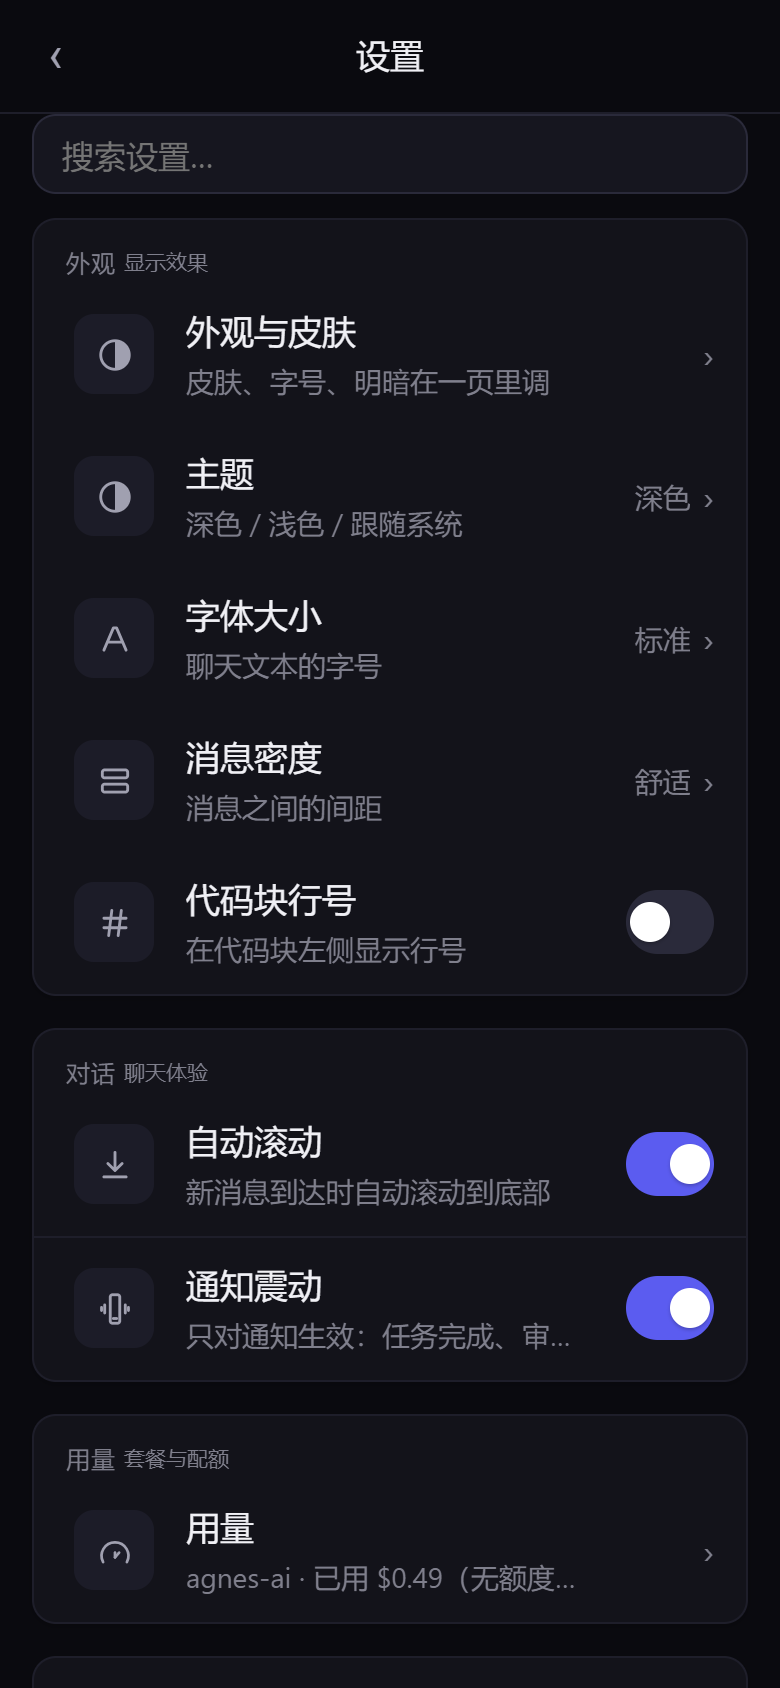
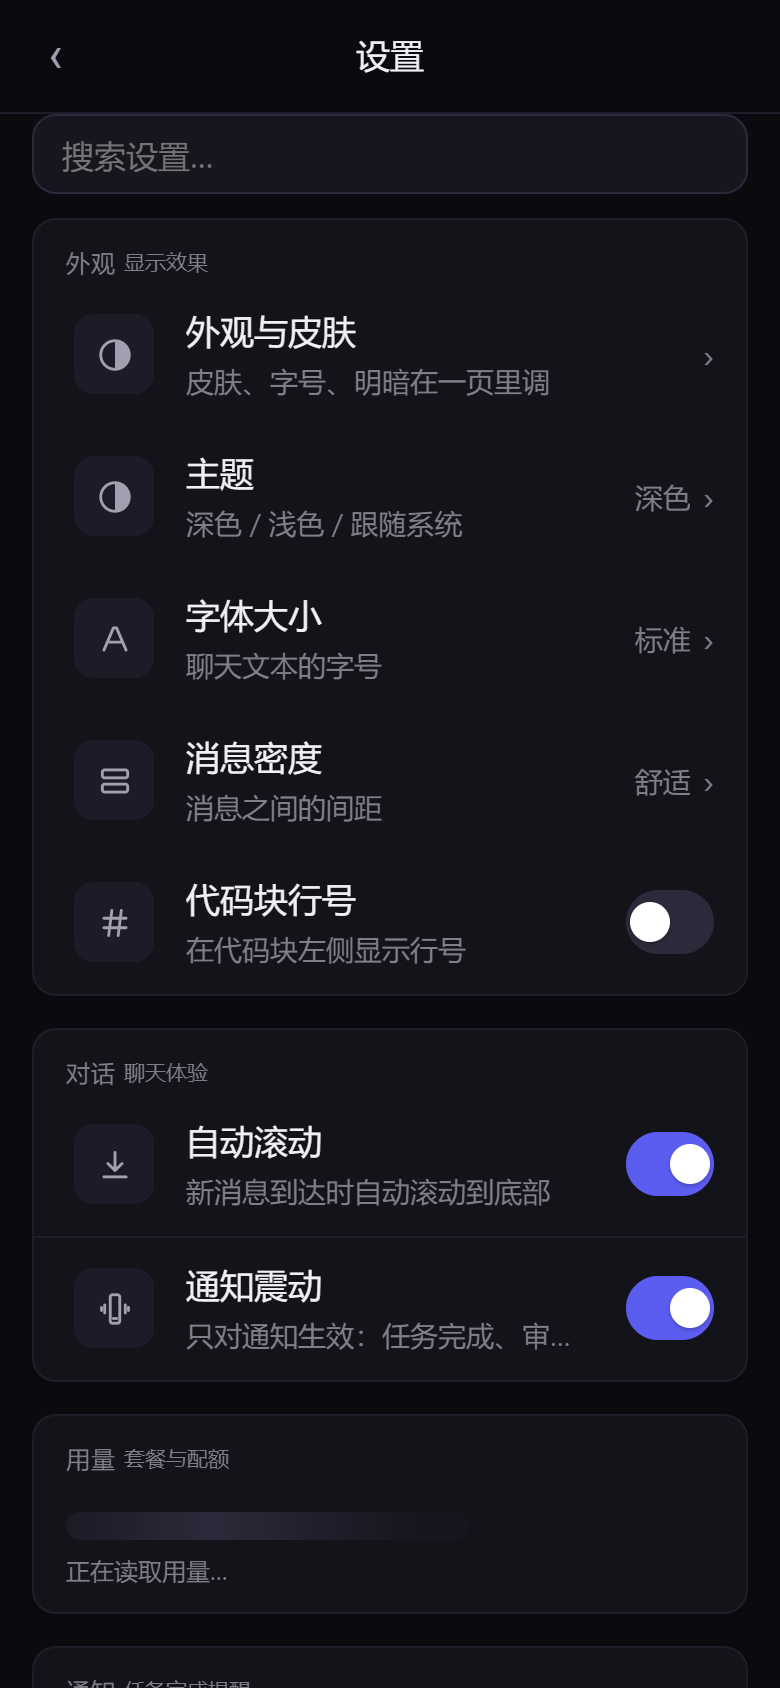
docs(原型): 对话页版式对照稿（390px，HTML + 截图），确认方向后再改真实代码

diff --git a/docs/prototype/chat-rework.html b/docs/prototype/chat-rework.html
@@ -1,0 +1,120 @@
+<!doctype html>
+<html lang="zh-CN">
+<head>
+<meta charset="utf-8">
+<meta name="viewport" content="width=device-width, initial-scale=1">
+<title>对话页 · 对照稿</title>
+<style>
+  :root{
+    --bg:#101015; --sur1:#15151c; --sur2:#1c1c25; --line:rgba(255,255,255,.07);
+    --fg:#eceef5; --fg2:#a8adbd; --fg3:#767c8b;
+    --accent:#7c8cff; --ok:#3ddc84; --warn:#e0a52c; --danger:#ff6b81;
+    --t-s:12px; --t-m:14px; --t-l:17px; --t-xl:22px; --t-2xl:28px;
+    --r-s:8px; --r-m:12px; --r-l:18px;
+  }
+  *{box-sizing:border-box}
+  body{margin:0;background:#000;font-family:-apple-system,"PingFang SC","Noto Sans SC",system-ui,sans-serif;color:var(--fg)}
+  .phone{width:390px;height:844px;margin:0 auto;background:var(--bg);display:flex;flex-direction:column;overflow:hidden}
+
+  /* 头部 */
+  .hdr{display:flex;align-items:center;gap:10px;padding:14px 12px 10px;border-bottom:1px solid var(--line);background:var(--bg)}
+  .hdr .back{color:var(--fg2);font-size:18px}
+  .hdr .title{font-size:var(--t-l);font-weight:600;flex:1;text-align:center}
+  .hdr .tools{display:flex;gap:14px;color:var(--fg2);font-size:16px}
+
+  .body{flex:1;overflow:auto;padding:12px 12px 8px;display:flex;flex-direction:column;gap:12px}
+
+  /* 用户气泡 */
+  .bubble-user{align-self:flex-end;max-width:78%;background:var(--sur2);border:1px solid var(--line);border-radius:var(--r-m) var(--r-m) 4px var(--r-m);padding:10px 12px;font-size:var(--t-m);line-height:1.5;color:var(--fg)}
+
+  /* 结论卡 */
+  .verdict{border:1px solid var(--line);border-top:3px solid var(--ok);border-radius:var(--r-m);background:var(--sur1);padding:14px;display:flex;flex-direction:column;gap:10px}
+  .verdict-tag{display:inline-flex;align-items:center;gap:6px;font-size:var(--t-s);font-weight:600;color:var(--ok)}
+  .verdict-head{font-size:var(--t-l);font-weight:600;line-height:1.35}
+  .verdict-detail{margin:0;font-size:var(--t-m);color:var(--fg2);line-height:1.5}
+  .verdict-stats{display:flex;gap:16px;align-items:baseline;margin-top:2px}
+  .stat b{font-size:var(--t-xl);font-weight:600;letter-spacing:-.02em}
+  .stat span{display:block;font-size:var(--t-s);color:var(--fg3);margin-top:2px}
+  .verdict-foot{display:flex;gap:8px;flex-wrap:wrap;border-top:1px solid var(--line);padding-top:10px}
+  .chip{display:inline-flex;align-items:center;gap:5px;height:22px;padding:0 8px;border-radius:999px;font-size:var(--t-s)}
+  .chip-ok{background:rgba(61,220,132,.16);color:var(--ok)}
+  .chip-warn{background:rgba(224,165,44,.16);color:var(--warn)}
+  .chip-info{background:rgba(124,140,255,.16);color:var(--accent)}
+
+  /* 工具调用行 */
+  .tools-block{border:1px solid var(--line);border-radius:var(--r-m);background:var(--sur1);overflow:hidden}
+  .tools-head{display:flex;align-items:center;gap:8px;padding:12px 14px;font-size:var(--t-m);font-weight:600}
+  .tools-head .count{margin-left:auto;font-size:var(--t-s);color:var(--fg3);font-weight:400}
+  .tool-row{display:flex;align-items:center;gap:10px;padding:10px 14px;border-top:1px solid var(--line);font-size:var(--t-m)}
+  .tool-dot{width:8px;height:8px;border-radius:999px;flex:none}
+  .dot-ok{background:var(--ok)} .dot-run{background:var(--accent)} .dot-warn{background:var(--warn)}
+  .tool-name{flex:1;color:var(--fg)}
+  .tool-meta{font-size:var(--t-s);color:var(--fg3);font-variant-numeric:tabular-nums}
+
+  /* 助手正文 */
+  .msg{font-size:var(--t-m);line-height:1.6;color:var(--fg)}
+  .msg b{font-weight:600}
+  .msg code{background:var(--sur2);border:1px solid var(--line);border-radius:6px;padding:1px 5px;font-size:var(--t-s);color:var(--accent)}
+
+  /* 底部输入区 */
+  .composer{border-top:1px solid var(--line);padding:10px 12px 14px;background:var(--bg);display:flex;flex-direction:column;gap:8px}
+  .pills{display:flex;gap:8px}
+  .pill{display:inline-flex;align-items:center;gap:6px;height:32px;padding:0 12px;border-radius:999px;border:1px solid var(--line);color:var(--fg2);font-size:var(--t-s);background:var(--sur1)}
+  .inputrow{display:flex;align-items:center;gap:8px}
+  .input{flex:1;height:44px;border-radius:22px;border:1px solid var(--line);background:var(--sur1);display:flex;align-items:center;padding:0 14px;color:var(--fg3);font-size:var(--t-m)}
+  .send{width:44px;height:44px;border-radius:999px;background:var(--accent);display:flex;align-items:center;justify-content:center;color:#0b0b12;font-size:18px}
+</style>
+</head>
+<body>
+<div class="phone">
+  <div class="hdr">
+    <span class="back">‹</span>
+    <span class="title">修复移动端跳转</span>
+    <span class="tools">☰ ⚙ ⌕ ⋯ ☀</span>
+  </div>
+
+  <div class="body">
+    <div class="bubble-user">帮我查一下为什么点消息里的链接跳不到对应位置</div>
+
+    <div class="verdict">
+      <div class="verdict-tag">✓ 已完成</div>
+      <div class="verdict-head">找到原因了：滑动窗口只能往前翻，跳转把窗口推到开头后新的命中永远够不到</div>
+      <div class="verdict-stats">
+        <div class="stat"><b>12.4s</b><span>耗时</span></div>
+        <div class="stat"><b>2,666</b><span>测试通过</span></div>
+        <div class="stat"><b>9</b><span>条命中</span></div>
+      </div>
+      <div class="verdict-foot">
+        <span class="chip chip-ok">12 个文件</span>
+        <span class="chip chip-info">+214 / −86</span>
+        <span class="chip chip-warn">待真机验证</span>
+      </div>
+    </div>
+
+    <div class="tools-block">
+      <div class="tools-head">🔧 跑了 5 个工具<span class="count">12.4s</span></div>
+      <div class="tool-row"><span class="tool-dot dot-ok"></span><span class="tool-name">读文件 · ChatView.tsx</span><span class="tool-meta">1.2s</span></div>
+      <div class="tool-row"><span class="tool-dot dot-ok"></span><span class="tool-name">检索 · pendingTurnSeqRef</span><span class="tool-meta">0.4s</span></div>
+      <div class="tool-row"><span class="tool-dot dot-run"></span><span class="tool-name">改文件 · jumpWindowTo</span><span class="tool-meta">进行中</span></div>
+      <div class="tool-row"><span class="tool-dot dot-warn"></span><span class="tool-name">运行 · pnpm test</span><span class="tool-meta">跳过</span></div>
+    </div>
+
+    <div class="msg">
+      改动集中在 <b>跳转窗口收尾</b>：<code>jumpWindowTo</code> 完成后重置 <code>pendingTurnSeqRef</code>，并让收尾 effect 用新窗口的行判定落地。
+    </div>
+  </div>
+
+  <div class="composer">
+    <div class="pills">
+      <span class="pill">⚙ v4.1-flash ▾</span>
+      <span class="pill">🛡 完全访问</span>
+    </div>
+    <div class="inputrow">
+      <span class="pill">+</span>
+      <div class="input">说点什么…</div>
+      <div class="send">↑</div>
+    </div>
+  </div>
+</div>
+</body>
+</html>
